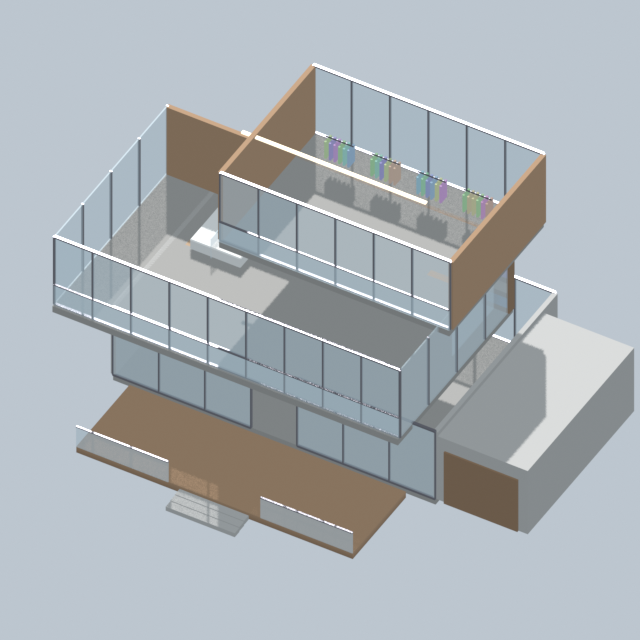
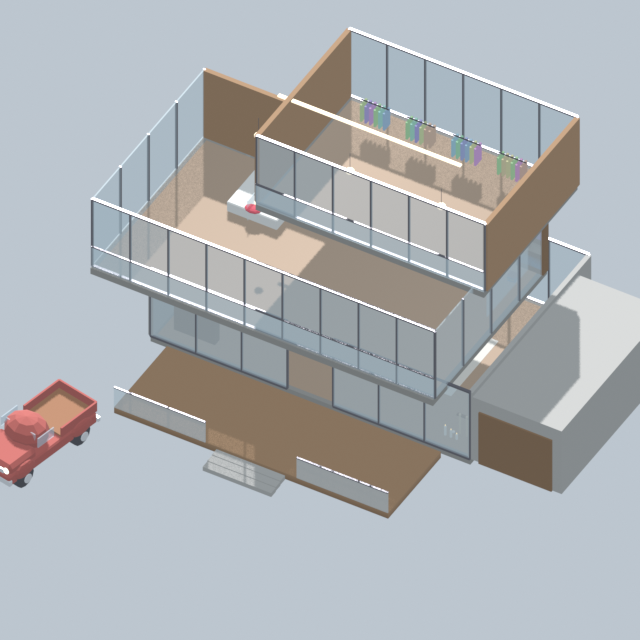
Mullen house: Stella's red truck out front + movie details inside
Apple-cover book on the coffee table, stacked books everywhere, sheet music and flowers on the
piano, Edwerd's record wall + record player, baseball bat rack, graduation cap wall, candles,
red pillow, warm wood floors and pendant lights. Interior close-up renders.

diff --git a/ArtSource/build_mullen_house.py b/ArtSource/build_mullen_house.py
@@ -64,6 +64,9 @@ def railing(m, x0, x1, y, z):
 
 def floor_slab(m, cx, cy, w, d, z, col=CONCRETE_DK):
     m.box((cx, cy, z - 0.15), (w, d, 0.3), shade(col))
+    # warm wood floorboards on top (inside)
+    m.box((cx, cy, z + 0.005), (w - 0.4, d - 0.4, 0.01),
+          lambda p, n: hsv(0.07, 0.45, 0.55 + 0.08 * (int(p.x * 3) % 2)))
 
 
 def box_room(m, cx, cy, w, d, z, front_glass=True, back_glass=False, side_glass=False, clad=cedar, door_gap=None):
@@ -133,6 +136,85 @@ def pine(m, x, y, h, rnd):
         m.cyl((x, y, h * 0.25 + k * h * 0.14), r, h * 0.28, shade(hsv(0.36 + rnd.uniform(-0.02, 0.02), 0.45, 0.28)), sides=7, top=0.15)
 
 
+def bella_truck(m, x, y, yaw=0):
+    """Stella's old faded-red pickup truck (rounded 1950s cab, chrome bumpers, big wheel arches)."""
+    red = lambda p, n: tuple(c * (0.55 + 0.45 * (0.5 + 0.5 * n.z)) for c in (0.62, 0.16, 0.14))
+    rust = shade("#7a3a20")
+    chrome = shade("#d8d8de")
+    f = []
+    f += m.box((x, y, 0.75), (2.0, 5.0, 0.5), red, bevel=0.06)                       # chassis / body
+    f += m.box((x, y + 1.6, 1.15), (1.9, 1.6, 0.5), red, bevel=0.15)                 # long rounded hood
+    f += m.blob((x, y + 0.4, 1.5), (0.95, 0.8, 0.65), red, seg=10, rings=6)          # rounded cab
+    f += m.box((x, y + 0.75, 1.65), (1.5, 0.05, 0.5), (0.55, 0.65, 0.72), M_GLASS)   # windshield
+    for sx in (1, -1):
+        f += m.box((x + sx * 0.93, y + 0.35, 1.6), (0.05, 0.9, 0.45), (0.55, 0.65, 0.72), M_GLASS)
+    f += m.box((x, y - 1.5, 1.1), (1.9, 2.0, 0.08), rust)                            # truck bed floor
+    for sx in (1, -1):
+        f += m.box((x + sx * 0.95, y - 1.5, 1.3), (0.08, 2.0, 0.45), red)               # bed walls
+    f += m.box((x, y - 2.5, 1.3), (1.9, 0.08, 0.45), red)                             # tailgate
+    f += m.box((x, y + 2.45, 0.7), (2.1, 0.15, 0.22), chrome, M_SHINY)                # front bumper
+    f += m.box((x, y - 2.55, 0.65), (2.1, 0.12, 0.2), chrome, M_SHINY)               # rear bumper
+    f += m.box((x, y + 2.42, 1.0), (1.3, 0.05, 0.4), chrome, M_SHINY)                # grille
+    for sx in (1, -1):
+        f += m.blob((x + sx * 0.75, y + 2.4, 1.15), (0.14, 0.05, 0.14), "#fff6c8", M_GLOW)   # headlights
+        for wy in (1.6, -1.6):
+            f += m.cyl((x + sx * 1.02, y + wy, 0.48), 0.48, 0.3, shade("#1a1a1e"), rot=(0, 90, 0), sides=12)   # tires
+            f += m.cyl((x + sx * 1.18, y + wy, 0.48), 0.2, 0.04, chrome, M_SHINY, rot=(0, 90, 0), sides=10)     # hubcaps
+            f += m.blob((x + sx * 0.98, y + wy, 0.85), (0.15, 0.6, 0.35), red)                                 # fender arches
+    f += m.blob((x - 0.4, y + 2.46, 0.95), (0.12, 0.03, 0.1), rust)                  # a little rust patch
+    m.rotate_last(f, (x, y, 0), (0, 0, yaw))
+
+
+def stacked_books(m, x, y, z, n, rnd):
+    for k in range(n):
+        m.box((x + rnd.uniform(-0.03, 0.03), y, z + 0.035 + k * 0.07), (0.32, 0.24, 0.065),
+              hsv(rnd.choice([0.0, 0.02, 0.6, 0.75, 0.1]), 0.5, 0.45), rot=(0, 0, rnd.uniform(-12, 12)))
+
+
+def apple_book(m, x, y, z):
+    """The famous cover: a black book with hands holding a red apple."""
+    m.box((x, y, z + 0.02), (0.36, 0.5, 0.04), shade("#121014"))
+    m.blob((x, y + 0.02, z + 0.05), (0.07, 0.07, 0.03), "#c8202c", M_SHINY)
+    m.box((x, y - 0.07, z + 0.045), (0.16, 0.06, 0.01), shade("#e8dcd0"))         # the cupped hands
+
+
+def baseball_bat_rack(m, x, y):
+    m.box((x, y, 1.0), (0.9, 0.12, 0.06), shade(CEDAR_DK))
+    for k in range(3):
+        f = m.cyl((x - 0.3 + k * 0.3, y + 0.05, 0.1), 0.035, 1.0, shade("#c8a070"), sides=6, top=0.05)
+    m.blob((x + 0.55, y + 0.1, 0.12), (0.06, 0.06, 0.06), shade("#f4f0e8"))         # a baseball
+    m.box((x + 0.55, y + 0.1, 0.12), (0.01, 0.01, 0.12), "#c8202c")                 # stitching
+
+
+def graduation_cap_wall(m, x, y, z, rnd):
+    """The wall of graduation caps (they've graduated a LOT of times)."""
+    for i in range(6):
+        for j in range(4):
+            cx, cz = x - 1.25 + i * 0.5, z + 0.5 + j * 0.45
+            m.box((cx, y, cz), (0.32, 0.04, 0.32), shade("#141218"), rot=(0, 45, 0))
+            m.tube([(cx, y - 0.03, cz), (cx + 0.08, y - 0.04, cz - 0.15)], 0.008, hsv(rnd.choice([0.12, 0.0, 0.6]), 0.7, 0.8))
+
+
+def vase_flowers(m, x, y, z):
+    m.cyl((x, y, z), 0.09, 0.32, (0.7, 0.85, 0.9), M_GLASS, sides=8, top=0.06)
+    for k in range(5):
+        a = k * 1.25
+        m.tube([(x, y, z + 0.3), (x + math.cos(a) * 0.12, y + math.sin(a) * 0.12, z + 0.6)], 0.006, shade("#4a6a2a"))
+        m.blob((x + math.cos(a) * 0.12, y + math.sin(a) * 0.12, z + 0.62), (0.05, 0.05, 0.04), hsv(0.92, 0.35, 0.95))
+
+
+def record_shelf(m, x, y, rnd):
+    m.box((x, y, 0.6), (1.8, 0.35, 1.2), shade(CEDAR_DK))
+    for k in range(22):
+        m.box((x - 0.82 + k * 0.078, y - 0.05, 0.62), (0.03, 0.3, 0.3), hsv(rnd.random(), 0.35, 0.5))
+    m.cyl((x - 0.5, y, 1.2), 0.2, 0.06, shade("#2a2a30"), sides=10)                   # record player
+    m.cyl((x - 0.5, y, 1.26), 0.15, 0.01, shade("#101010"), M_SHINY, sides=12)
+
+
+def cozy_rug(m, x, y, z, w, d):
+    m.box((x, y, z + 0.01), (w, d, 0.02), lambda p, n: (0.82, 0.78, 0.72) if (int(p.x * 4) + int(p.y * 4)) % 2 else (0.72, 0.68, 0.62))
+
+
 def build():
     house = Model("Bld_MullenHouse")
     roof = Model("Bld_MullenHouse_Roof")
@@ -167,6 +249,9 @@ def build():
     # ---- warm light inside (glow strips under each ceiling) + furniture
     for z in (H - 0.1, 2 * H - 0.1, 3 * H - 0.1):
         house.box((0, 0, z), (8, 0.15, 0.06), WARM, M_GLOW)
+        for x in (-4.0, 0.0, 4.0):   # round pendant lights
+            house.tube([(x, 1.5, z), (x, 1.5, z - 0.8)], 0.01, shade(STEEL))
+            house.blob((x, 1.5, z - 0.9), (0.18, 0.18, 0.12), WARM, M_GLOW)
     white_sofa(house, -2.5, -1.5, 0.0)
     white_sofa(house, -2.5, 1.5, 0.0, yaw=180)
     house.box((-2.5, 0.0, 0.2), (1.4, 0.8, 0.4), shade("#3a3434"), M_SHINY)   # coffee table
@@ -189,6 +274,27 @@ def build():
         for j in range(6):
             house.box((x - 0.5 + j * 0.2, -3.0, 2 * H + 1.1), (0.08, 0.45, 0.85), hsv(rnd.random(), 0.45, 0.7))
 
+
+    # ---- movie details (cute edition)
+    cozy_rug(house, -2.5, 0.0, 0.0, 4.2, 3.6)
+    apple_book(house, -2.7, 0.1, 0.42)
+    stacked_books(house, -2.2, -0.15, 0.4, 3, rnd)
+    vase_flowers(house, -1.9, 0.25, 0.4)
+    house.box((3.5, 1.4, 1.1), (0.4, 0.02, 0.28), shade("#f4ead8"))                  # sheet music on the piano
+    vase_flowers(house, 4.6, 0.7, 1.05)
+    record_shelf(house, 5.5, 3.6, rnd)                                                # Edwerd's music wall
+    baseball_bat_rack(house, -6.3, 3.5)                                               # thunderstorm baseball
+    graduation_cap_wall(house, 1.0, -3.95, H, rnd)                                    # second floor hallway
+    for k in range(6):                                                                # stacks of books everywhere
+        stacked_books(house, -5.2 + k * 1.8, -1.8, H, rnd.randint(2, 5), rnd)
+    stacked_books(house, 4.2, -0.3, H + 0.55, 4, rnd)                                 # on the bed
+    house.blob((5.0, 0.2, H + 0.6), (0.35, 0.25, 0.1), shade("#c8202c"))            # a red pillow on the bed
+    for k in range(3):                                                                # candles by the windows
+        house.cyl((-6.0 + k * 0.25, 3.8, 0.0), 0.05, 0.25 + 0.1 * k, shade("#f4ead8"), sides=6)
+        house.blob((-6.0 + k * 0.25, 3.8, 0.3 + 0.1 * k), (0.02, 0.02, 0.04), "#ffb84a", M_GLOW)
+    # Stella's red truck parked out front, a little crooked
+    bella_truck(house, 7.5, 12.5, yaw=-12)
+
     # ---- the forest around it: tall pines (separate object so the game can use its own trees instead)
     trees = Model("Bld_MullenHouse_Pines")
     for k in range(14):
@@ -209,7 +315,7 @@ def main():
     scene = bpy.context.scene
     everything = [house, roof, trees]
     # the entrance faces +Y, so the camera sits on the +Y side (yaw 180 in render_object's convention)
-    views = [("q", 205, 16, [house, roof, trees], 1.1), ("front", 180, 6, [house, roof], 1.2),
+    views = [("q", 205, 16, [house, roof, trees], 1.25), ("front", 180, 6, [house, roof], 1.2),
              ("side", 250, 10, [house, roof], 1.2), ("cutaway", 210, 42, [house], 1.2)]
     for label, yaw, pitch, show, pad in views:
         for o in everything:
@@ -218,6 +324,27 @@ def main():
         render_object(house, [], cam, os.path.join(OUT, f"Bld_MullenHouse_{label}.png"), yaw=yaw, pitch=pitch, pad=pad * (1.6 if label == "q" else 1.0))
         for o in everything:
             o.hide_render = o not in show
+    # interior close-ups: no roof, no upper floors in the way (hide everything above the ground floor
+    # by rendering a camera low and inside the glass, looking at the living room)
+    from mathutils import Vector
+    for o in everything:
+        o.hide_render = o is not house
+    cam.data.type = "PERSP"
+    cam.data.lens = 20
+    for light in [o for o in scene.objects if o.type == "LIGHT"]:
+        light.data.energy = 4.5
+    pt = bpy.data.objects.new("Fill", bpy.data.lights.new("Fill", "POINT"))
+    pt.data.energy = 1800
+    pt.data.color = (1.0, 0.85, 0.7)
+    pt.location = (0, 0, H - 0.6)
+    scene.collection.objects.link(pt)
+    shots = [("living", (-6.2, 3.6, 1.6), (0.5, -0.5, 0.7)), ("piano", (0.5, 3.8, 1.7), (3.8, 0.4, 0.8)),
+             ("upstairs", (-5.0, 3.6, H + 1.7), (1.0, -3.6, H + 1.4))]
+    for label, pos, look in shots:
+        cam.location = Vector(pos)
+        cam.rotation_euler = (Vector(look) - Vector(pos)).to_track_quat("-Z", "Y").to_euler()
+        scene.render.filepath = os.path.join(OUT, f"Bld_MullenHouse_in_{label}.png")
+        bpy.ops.render.render(write_still=True)
     print("MULLEN HOUSE OK")
 
 
